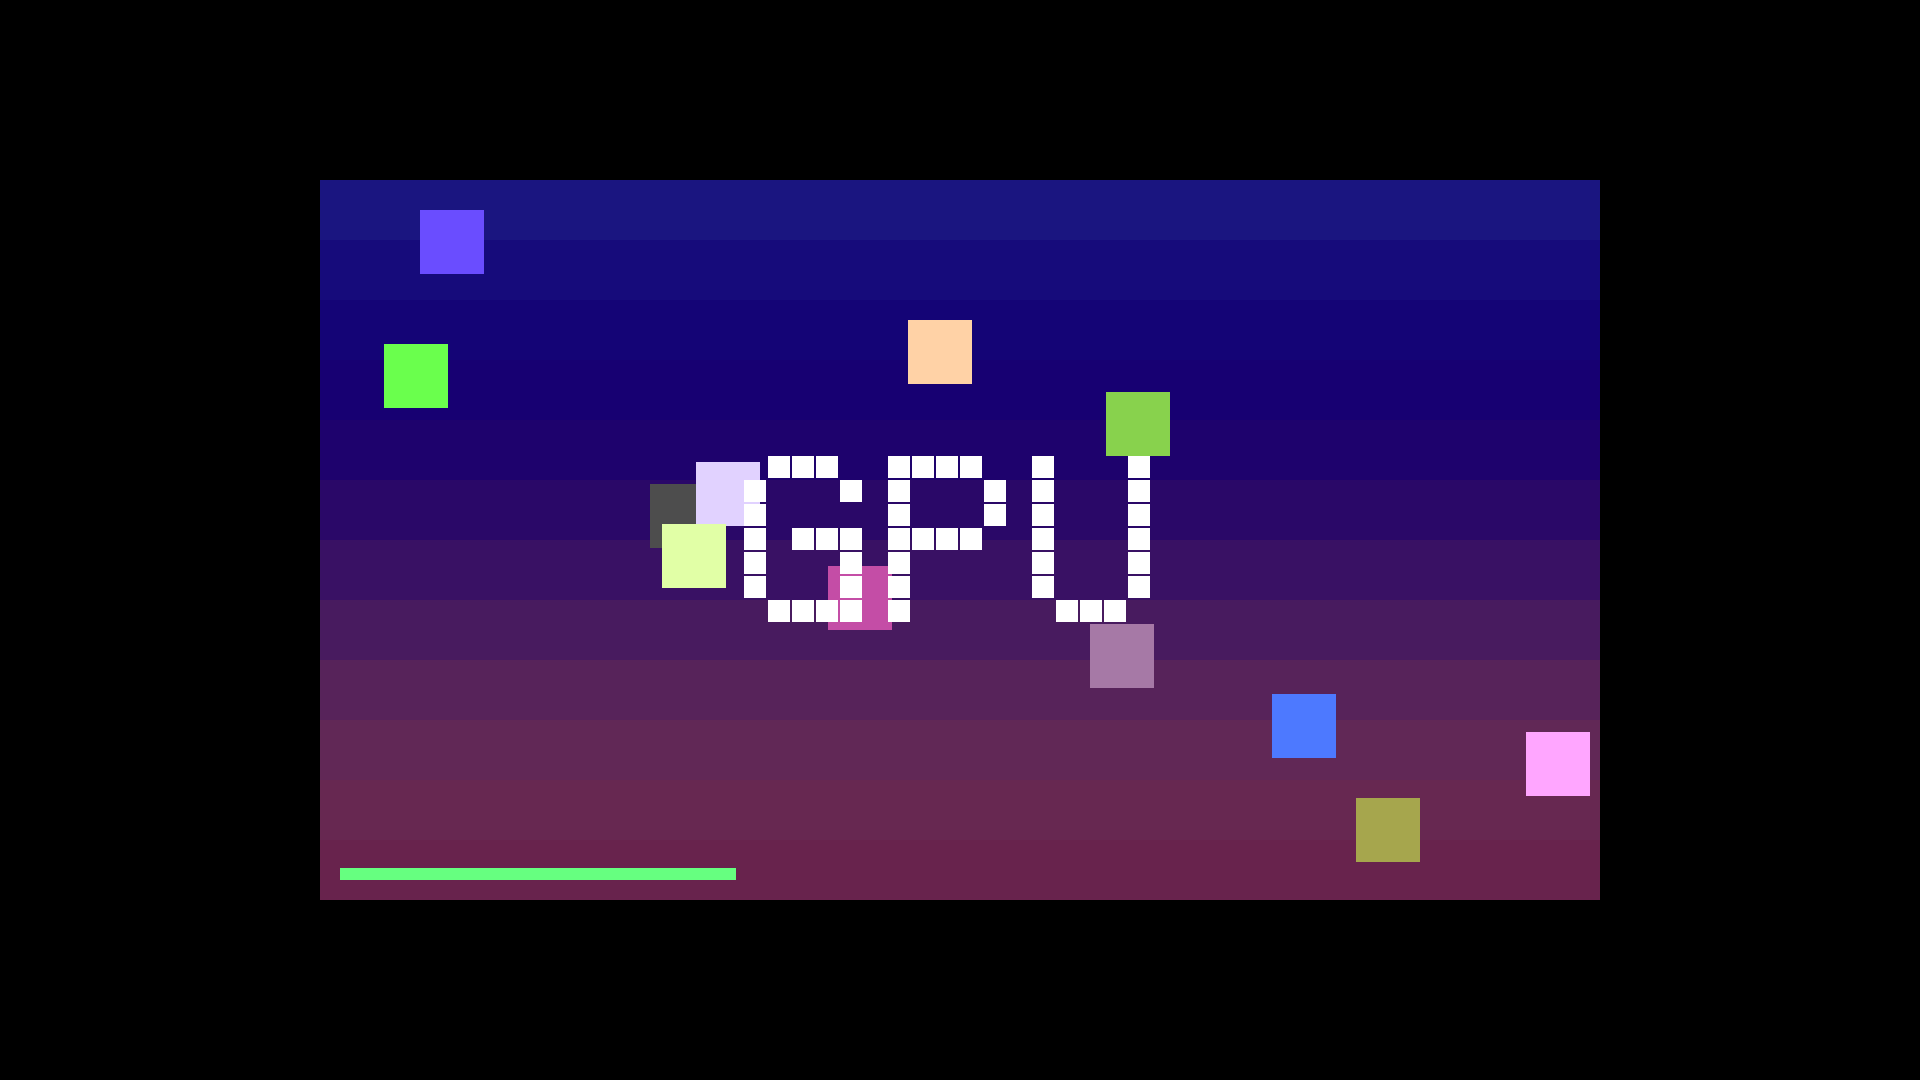
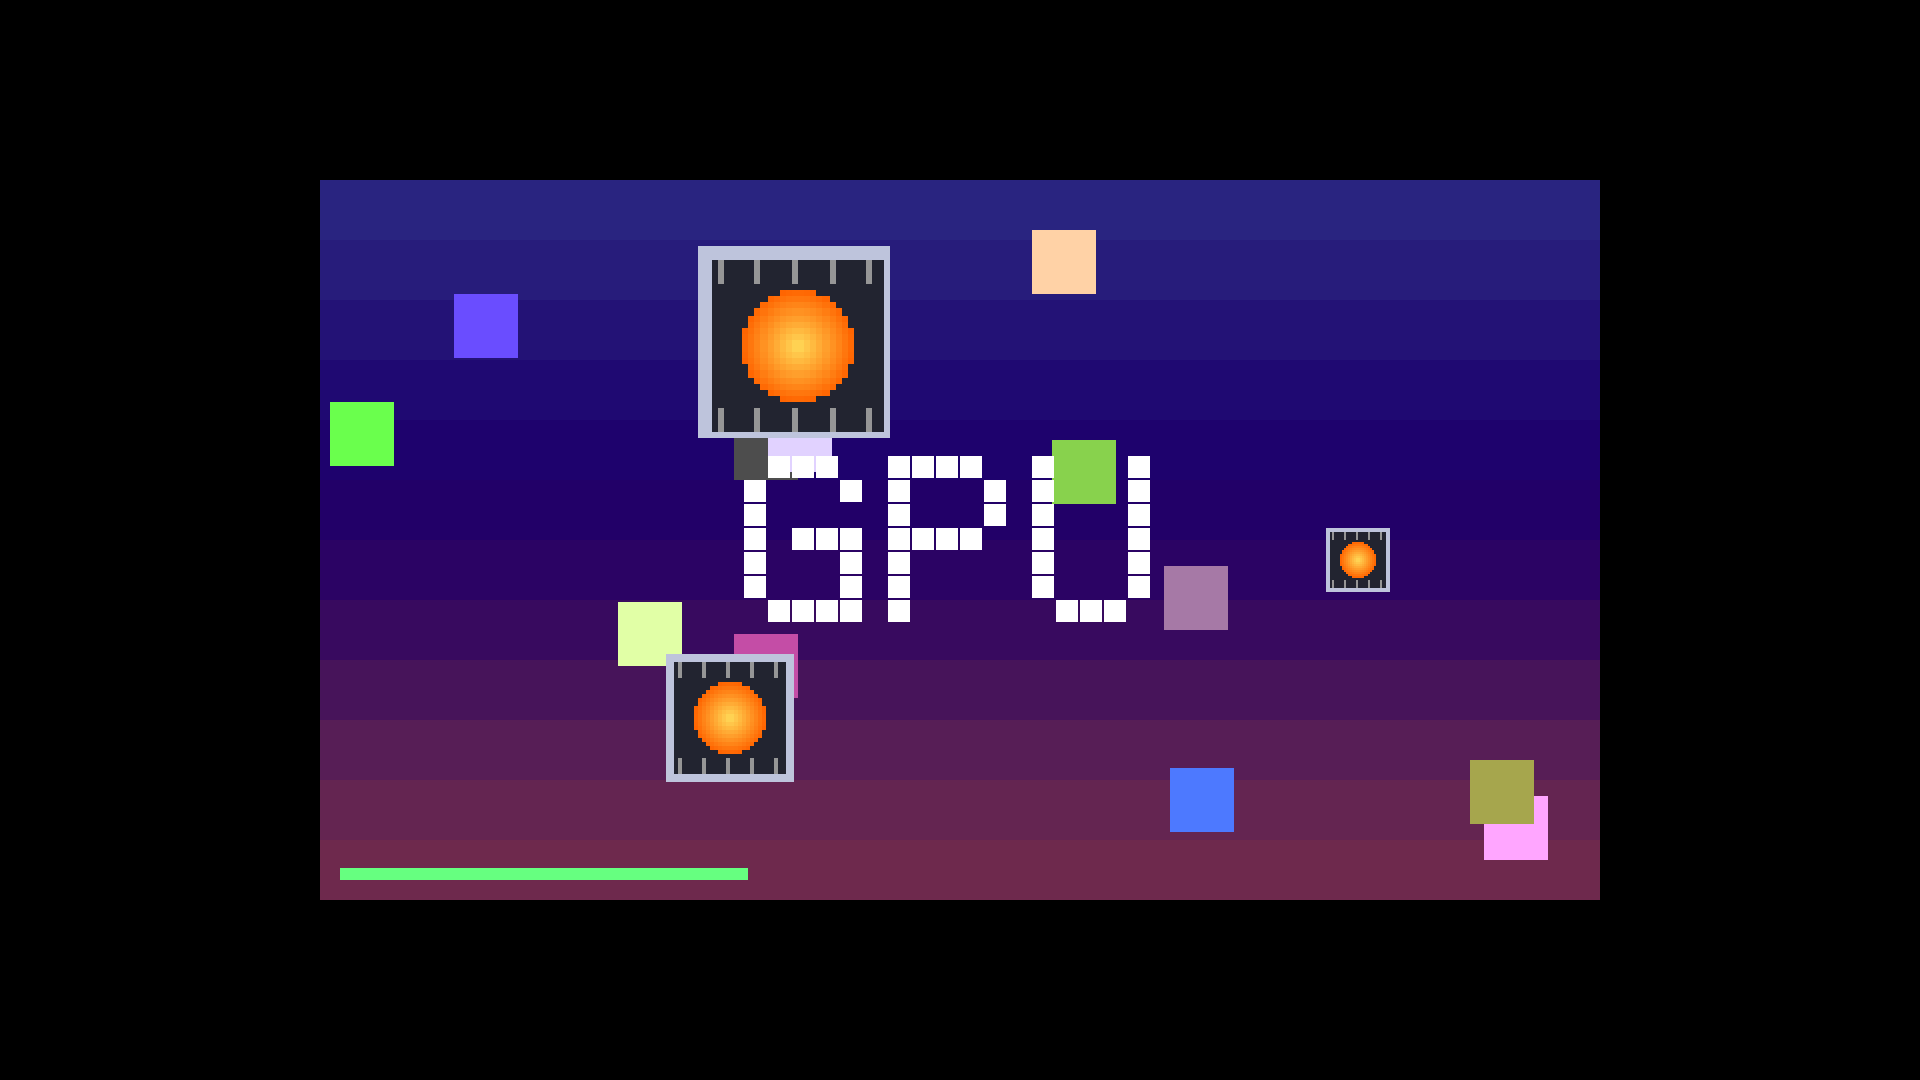
eden-ps4: the GPU test draws 2D-engine sprites from a DMA copy; a blitter fix (patch 0015)
The GPU test copies a CPU-drawn sprite with the DMA engine and blits it
at 1x, 2x and 3x with the 2D engine, both done in software by the null
renderer. The scaled ones exposed an upstream bug in Eden's software
blitter (the source row's fraction leaked into the column): fixed, and
the null and Vulkan renderers now draw the same.

Claude-Session: https://claude.ai/code/session_01VdsH7DVAudgDzMpBqJZHAz

diff --git a/eden-ps4/game/gputest.c b/eden-ps4/game/gputest.c
@@ -4,8 +4,10 @@
 // and every rectangle a clear limited to a scissor rectangle. A program that draws this way shows
 // a picture only where the GPU is emulated; with Eden's null renderer its frames stay empty.
 //
-// It draws a backdrop, bouncing squares and the word GPU, waits for each frame's GPU work through
-// a fence the command stream signals, and quits on +.
+// It draws a backdrop, bouncing squares and the word GPU with the 3D engine's clears, and sprites
+// with the 2D engine: a 32x32 image drawn by the CPU, copied once by the DMA engine, then blitted
+// and scaled onto the frame. It waits for each frame's GPU work through a fence the command stream
+// signals, and quits on +.
 
 #include <math.h>
 #include <stdbool.h>
@@ -26,7 +28,21 @@ size_t __nx_heap_size = 64 * 1024 * 1024;
 
 // Maxwell: classes, methods (32-bit register indices) and values
 #define CLASS_3D 0xB197 // Maxwell B
+#define CLASS_2D 0x902D // Fermi 2D
+#define CLASS_DMA 0xB0B5 // Maxwell DMA copy
 #define SUBCH_3D 0
+#define SUBCH_2D 2
+#define SUBCH_DMA 4
+#define M2D_DST_FORMAT 0x080 // format, layout, block size, depth, layer
+#define M2D_DST_WIDTH 0x086  // width, height, address (2)
+#define M2D_SRC_FORMAT 0x08C // format, layout
+#define M2D_SRC_PITCH 0x091  // pitch, width, height, address (2)
+#define M2D_OPERATION 0x0AB
+#define M2D_SAMPLE_MODE 0x223
+#define M2D_BLIT 0x22C // dst x, y, width, height, du/dx (frac, int), dv/dy, src x, src y (32.32)
+#define MDMA_LAUNCH 0x0C0
+#define MDMA_OFFSET_IN 0x100 // in (2), out (2), pitch in, pitch out, line length, line count
+#define SPRITE 32
 #define M_FENCE_VALUE 0x1C // GPFIFO (puller) methods
 #define M_FENCE_ACTION 0x1D
 #define M_RENDER_TARGET 0x200 // 8 words each, 0x10 apart: address (2), width, height, format,
@@ -68,6 +84,52 @@ static void method(u32 m, u32 count, const u32* args) {
 }
 static void method1(u32 m, u32 arg) {
     method(m, 1, &arg);
+}
+static void method_on(u32 subch, u32 m, u32 count, const u32* args) {
+    emit(header(INCREASING, count, subch, m));
+    for (u32 i = 0; i < count; i++)
+        emit(args[i]);
+}
+
+// A sprite blitted by the 2D engine from the pitch-linear image at 'src' onto the frame, scaled.
+static void sprite(iova_t src, iova_t frame, int x, int y, int scale) {
+    if (x < 0 || y < 0 || x + SPRITE * scale > W || y + SPRITE * scale > H)
+        return;
+    const u32 src_format[2] = {RT_FORMAT_RGBA8, 1 /* pitch */};
+    method_on(SUBCH_2D, M2D_SRC_FORMAT, 2, src_format);
+    const u32 src_surface[5] = {SPRITE * 4, SPRITE, SPRITE, (u32)(src >> 32), (u32)src};
+    method_on(SUBCH_2D, M2D_SRC_PITCH, 5, src_surface);
+    const u32 dst_format[5] = {RT_FORMAT_RGBA8, 0 /* block linear */, 4 << 4 /* 16 GOBs */, 1, 0};
+    method_on(SUBCH_2D, M2D_DST_FORMAT, 5, dst_format);
+    const u32 dst_surface[4] = {W, H, (u32)(frame >> 32), (u32)frame};
+    method_on(SUBCH_2D, M2D_DST_WIDTH, 4, dst_surface);
+    const u32 copy = 3; // SrcCopy
+    method_on(SUBCH_2D, M2D_OPERATION, 1, &copy);
+    const u32 corner = 1; // pixel corners, point sampling
+    method_on(SUBCH_2D, M2D_SAMPLE_MODE, 1, &corner);
+    // the step through the source for a screen pixel: 1/scale, in 32.32
+    const u64 step = (1ull << 32) / (u64)scale;
+    const u32 blit[12] = {(u32)x, (u32)y, SPRITE * (u32)scale, SPRITE * (u32)scale, (u32)step,
+                          (u32)(step >> 32), (u32)step, (u32)(step >> 32), 0, 0, 0, 0};
+    method_on(SUBCH_2D, M2D_BLIT, 12, blit); // the last word starts it
+}
+
+// The sprite: a chip with a glowing core, drawn by the CPU.
+static void draw_sprite(u32* pixels) {
+    for (int y = 0; y < SPRITE; y++)
+        for (int x = 0; x < SPRITE; x++) {
+            const float dx = x - 15.5f, dy = y - 15.5f, d = sqrtf(dx * dx + dy * dy);
+            u32 r = 34, g = 36, b = 48;
+            if (x < 2 || y < 2 || x >= SPRITE - 2 || y >= SPRITE - 2) {
+                r = 190, g = 196, b = 220;
+            } else if (d < 9) {
+                const float t = d / 9;
+                r = 255, g = (u32)(220 - 120 * t), b = (u32)(90 - 90 * t);
+            } else if ((x % 6 == 3) && (y < 6 || y > 25)) {
+                r = g = b = 150; // pins
+            }
+            pixels[y * SPRITE + x] = r | g << 8 | b << 16 | 0xFFu << 24;
+        }
 }
 static u32 f32bits(float f) {
     u32 u;
@@ -148,6 +210,19 @@ int main(int argc, char* argv[]) {
             return 1;
         }
     }
+    // The sprite (drawn by the CPU) and its copy (made by the DMA engine), in one GPU buffer.
+    u32* sprite_mem = aligned_alloc(0x1000, 0x10000);
+    NvMap sprite_map;
+    iova_t sprite_iova = 0;
+    if (!sprite_mem || R_FAILED(rc = nvMapCreate(&sprite_map, sprite_mem, 0x10000, 0x1000, NvKind_Pitch, true)) ||
+        R_FAILED(rc = nvAddressSpaceMap(&as, nvMapGetHandle(&sprite_map), true, NvKind_Pitch, &sprite_iova))) {
+        fprintf(stderr, "gputest: sprite buffer: %#x\n", rc);
+        return 1;
+    }
+    memset(sprite_mem, 0, 0x10000);
+    draw_sprite(sprite_mem);
+    const iova_t sprite_copy = sprite_iova + 0x8000;
+
     fprintf(stderr, "gputest: GPU channel open, syncpoint %u, framebuffers at GPU address %#lx\n",
             nvGpuChannelGetSyncpointId(&channel), fb_iova);
 
@@ -190,8 +265,19 @@ int main(int argc, char* argv[]) {
         g_cmd->used = 0;
 
         if (first) {
-            emit(header(INCREASING, 1, SUBCH_3D, 0)); // bind the 3D engine to the subchannel
+            emit(header(INCREASING, 1, SUBCH_3D, 0)); // bind the engines to their subchannels
             emit(CLASS_3D);
+            emit(header(INCREASING, 1, SUBCH_2D, 0));
+            emit(CLASS_2D);
+            emit(header(INCREASING, 1, SUBCH_DMA, 0));
+            emit(CLASS_DMA);
+            // the sprite's copy, by the DMA engine: one line of its bytes, pitch to pitch
+            const u32 dma[8] = {(u32)(sprite_iova >> 32), (u32)sprite_iova, (u32)(sprite_copy >> 32),
+                                (u32)sprite_copy, SPRITE * SPRITE * 4, SPRITE * SPRITE * 4,
+                                SPRITE * SPRITE * 4, 1};
+            method_on(SUBCH_DMA, MDMA_OFFSET_IN, 8, dma);
+            const u32 launch = 2 /* non-pipelined */ | 1 << 2 /* flush */ | 1 << 7 | 1 << 8 /* pitch */;
+            method_on(SUBCH_DMA, MDMA_LAUNCH, 1, &launch);
             method1(M_RT_CONTROL, 1 | (076543210 << 4)); // one render target, mapped to itself
             method1(M_COLOR_MASK, 0x1111);
             method1(M_CLEAR_FLAGS, CLEAR_FLAGS_SCISSOR);
@@ -218,6 +304,13 @@ int main(int argc, char* argv[]) {
             rect((int)squares[i].x, (int)squares[i].y, 32, 32, squares[i].r, squares[i].g, squares[i].b);
         }
         word_gpu(W / 2 - 3 * 6 * 12 / 2, H / 2 - 7 * 12 / 2, 12, 1.0f, 1.0f, 1.0f);
+        // sprites from the DMA engine's copy, circling at three sizes
+        for (int i = 0; i < 3; i++) {
+            const float angle = (float)frame * 0.03f + i * 2.094f;
+            const int scale = i + 1;
+            const int cx = W / 2 + (int)(200 * cosf(angle)), cy = H / 2 + (int)(110 * sinf(angle));
+            sprite(sprite_copy, target, cx - SPRITE * scale / 2, cy - SPRITE * scale / 2, scale);
+        }
         // a bar showing the frame rate: 6 pixels per frame a second
         rect(10, H - 16, fps * 6, 6, 0.4f, 1.0f, 0.5f);
 

diff --git a/eden-ps4/README.md b/eden-ps4/README.md
@@ -107,7 +107,8 @@ libnx's nvidia services (no deko3d, no shaders): a GPU channel bound to the Maxw
 window's framebuffers mapped into the GPU's address space as its render target, every rectangle a
 clear limited to a scissor rectangle, and a fence that the command stream signals (a syncpoint
 increment) before the frame is queued. It draws a backdrop, bouncing squares and the word GPU,
-about 80 clears a frame.
+about 80 clears a frame, and sprites with the 2D engine: a 32x32 image the CPU draws, copied once
+by the DMA engine, then blitted onto the frame at 1x, 2x and 3x.
 
 ![The GPU test in shadPS4, drawn by the null renderer's software clears](screenshots/gputest-shadps4.png)
 
@@ -116,7 +117,10 @@ Two ways it shows:
 - **The null renderer, in software** (patch 0014; the PS4 build): colour clears are written to
   emulated memory (block linear or pitch, scissored, the common colour formats, channel masks for
   the 8-bit ones), a block of the surface at a time, and DMA copies and 2D engine blits go to their
-  engines' software paths instead of being claimed as done. So a program that draws with clears,
+  engines' software paths instead of being claimed as done. The sprites found a bug in Eden's
+  software blitter (from yuzu): its nearest-neighbour scaling mixed the source row's fraction into
+  the column, so a 2x blit came out as interleaved stripes (patch 0015 fixes it; the Vulkan
+  renderer's blit was right, and the two now draw the same). So a program that draws with clears,
   copies and blits shows in the CPU-composed frames, on the PS4 now: the GPU test runs at 60 frames
   a second on the desktop and 34 in shadPS4 (its display's pace again). Anything drawn with shaders
   still shows nothing.
@@ -195,8 +199,9 @@ Nothing in stage 2 or 3 has run on a console yet. What to try, and what tells th
    long each waited for a buffer off the screen (the display's pace) and how long scaling it took
    (the launcher's cost).
 4. **Controller test**: each PS4 button should light its Switch button.
-5. **GPU test**: the backdrop, the squares and GPU, drawn by the GPU emulation (software clears),
-   and its frame rate as a green bar (6 pixels a frame a second).
+5. **GPU test**: the backdrop, the squares and GPU (clears), three circling sprites (2D blits of
+   a DMA copy), all drawn by the GPU emulation in software, and its frame rate as a green bar
+   (6 pixels a frame a second).
 6. Any CPU-drawn homebrew `.nro` copied to `/data/eden-ps4` (FTP) appears in the list. L3 + R3
    held for a second stops it.
 
@@ -256,6 +261,7 @@ The patches are in `patches/`, made with `git format-patch` against Eden commit 
 | audio: frontend sink streams play silently when the output can't open | a stream without an output still consumes its buffers at an output's pace, so a program waiting for them doesn't stall |
 | vulkan: headless rendering for frontends that take frames | stage 4's Vulkan renderer without a window, above |
 | null renderer: colour clears, DMA copies and 2D blits in software | stage 4's GPU test on the PS4, above |
+| sw_blitter: nearest-neighbour scaling reads the right source pixel | an upstream bug the GPU test's sprites found, above |
 
 The PS4 memory changes, from what stage 1 measured:
 
